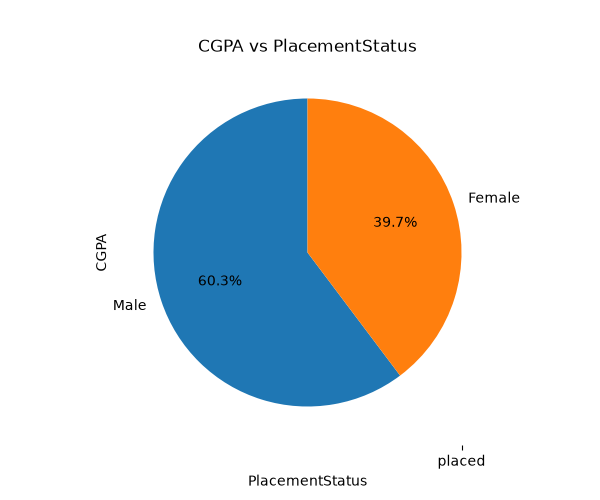
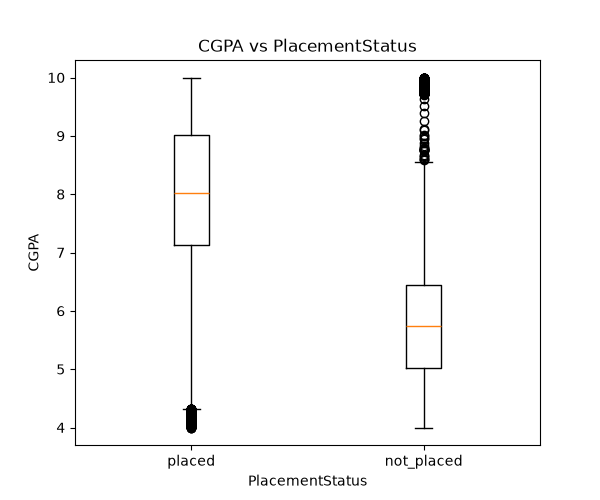
Isolate boxplot drawing context by properly closing previous figures

diff --git a/src/data/eda.py b/src/data/eda.py
@@ -39,6 +39,7 @@ def basic_ede(df):
     
     plt.savefig(os.path.join(results_dir, "placement_status_bar.png"))
     plt.show()
+    plt.close()
 
 
 def univariant(df):
@@ -53,6 +54,7 @@ def univariant(df):
     plt.ylabel("Frequency")
     plt.savefig(os.path.join(results_dir, "histogram_chat.png"))
     plt.show()
+    plt.close()
 
     gendercount=df["Gender"].value_counts()
     plt.figure(figsize = (6,5))
@@ -60,6 +62,7 @@ def univariant(df):
     plt.title("Gender distribution piechart")
     plt.savefig(os.path.join(results_dir, "piechart.png"))
     plt.show()
+    plt.close()
 
 
 def bivariate(df):
@@ -76,6 +79,7 @@ def bivariate(df):
     plt.show()
     plt.close()
 
+    plt.figure(figsize = (6,5))
     placed = df[df["PlacementStatus"] == 1]["CGPA"]
     not_placed = df[df["PlacementStatus"] == 0]["CGPA"]
     plt.boxplot([placed, not_placed], tick_labels=["placed", "not_placed"])
@@ -84,6 +88,7 @@ def bivariate(df):
     plt.ylabel("CGPA")
     plt.savefig(os.path.join(results_dir, "boxplot_cgpa.png"))
     plt.show()
+    plt.close()
 
 
 def multivariate(df):
